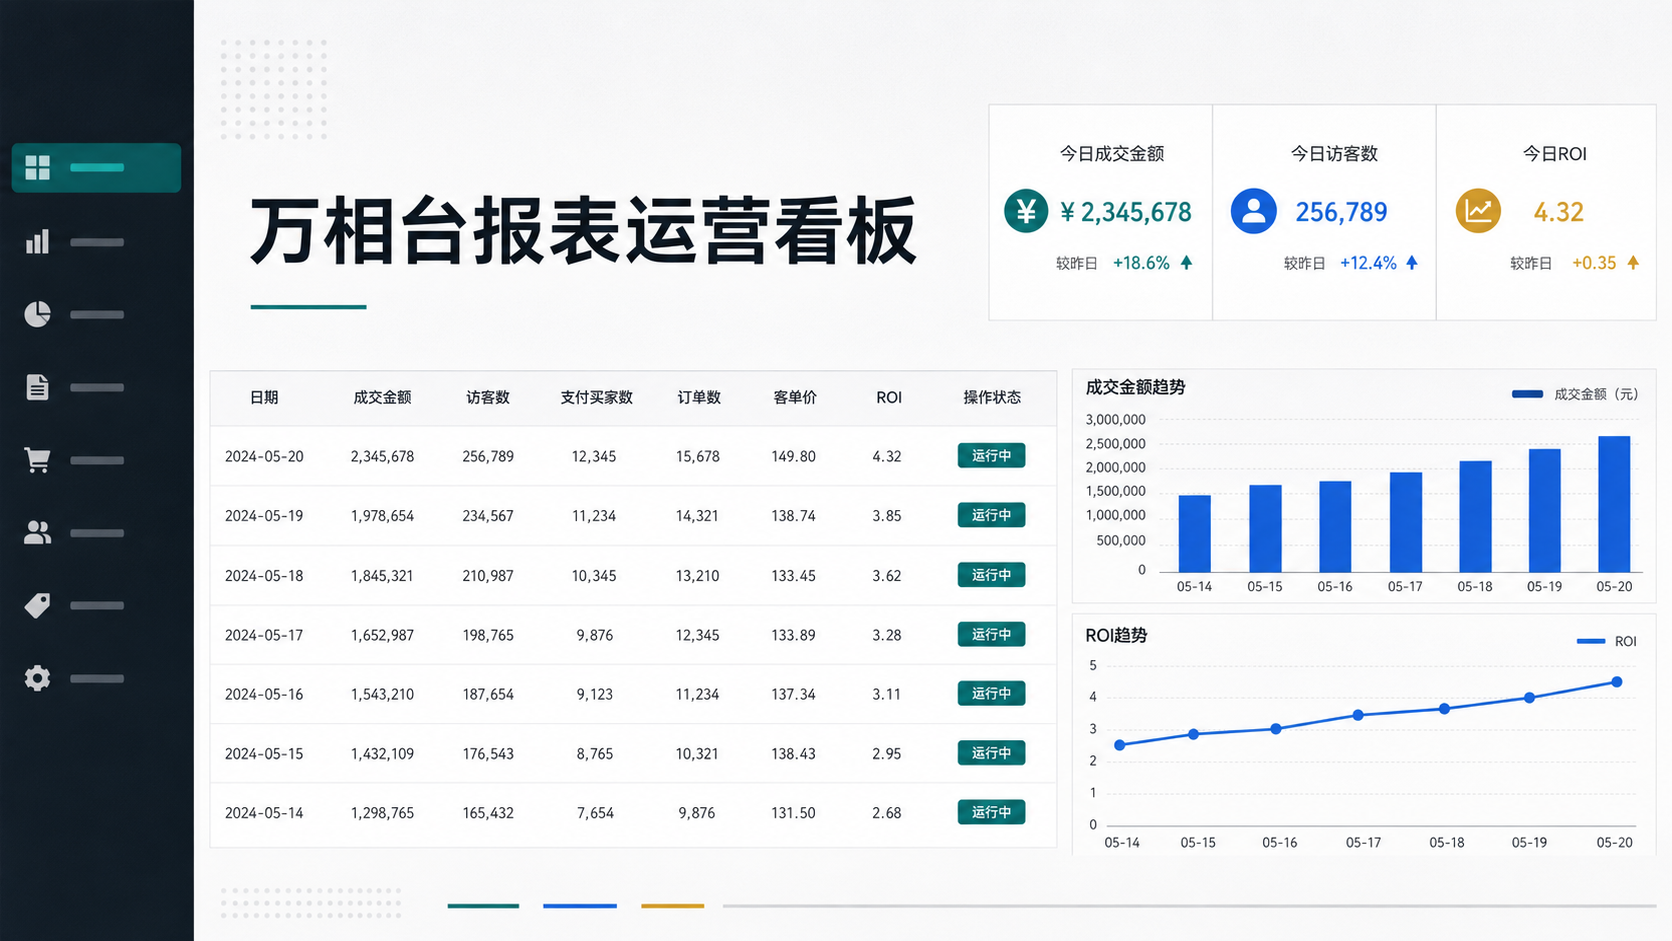
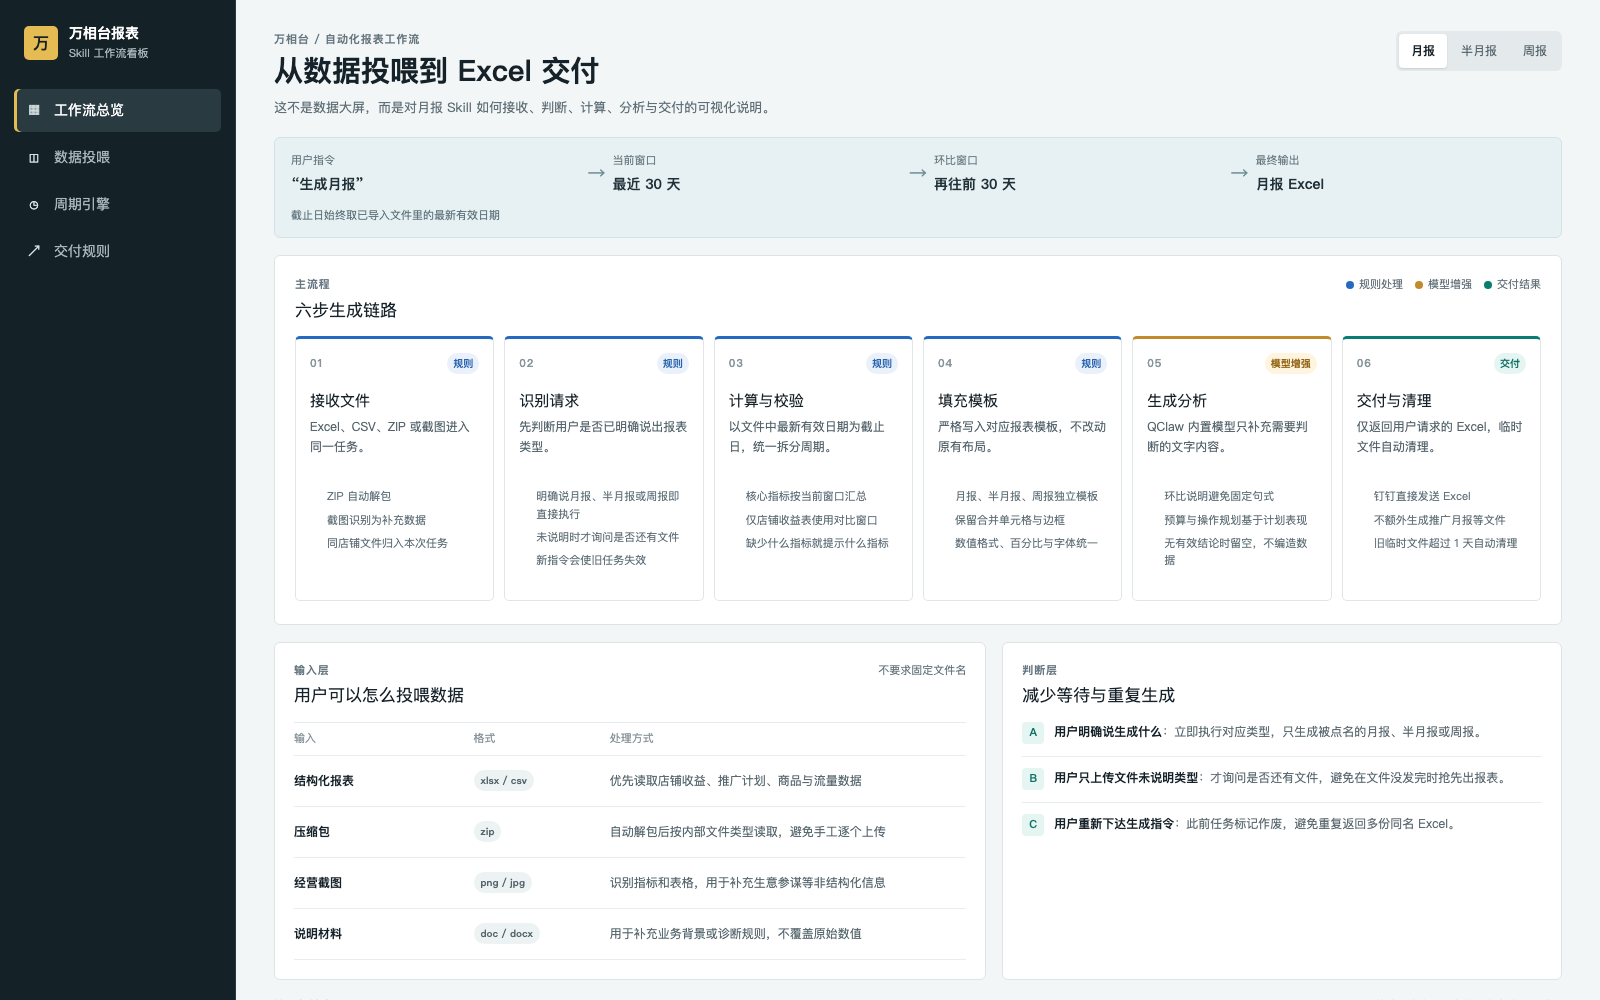
Refresh README workflow preview

diff --git a/dashboard/app/layout.tsx b/dashboard/app/layout.tsx
@@ -15,7 +15,7 @@ export async function generateMetadata(): Promise<Metadata> {
       title: "万相台报表工作流看板",
       description: "万相台报表从数据投喂、周期计算、模板填充到 Excel 交付的工作流。",
       type: "website",
-      images: [{ url: "/og.png", width: 1672, height: 941, alt: "万相台报表运营看板" }],
+      images: [{ url: "/og.png", width: 1600, height: 1000, alt: "万相台报表工作流看板" }],
     },
     twitter: {
       card: "summary_large_image",
